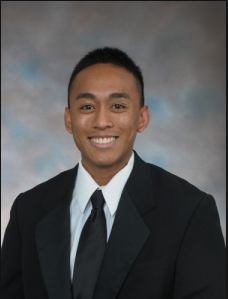
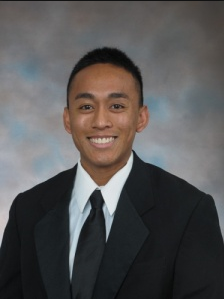
added some styling

diff --git a/index.html b/index.html
@@ -20,20 +20,22 @@
 </head>
 
 <body>
+	<a class="anchor" id="top"></a>
 	<div class="container-fluid">
 		<!--Navbar-->
 		<nav class="navbar navbar-expand-lg navbar-light fixed-top bg-light">
-			<a class="navbar-brand" href="#">C K C</a>
+			<a class="navbar-brand" href="#top">Cesar Kyle Casil</a>
 			<button class="navbar-toggler" type="button" data-toggle="collapse" data-target="#navbarsExample" aria-controls="navbarsExample"
 			 aria-expanded="false" aria-label="Toggle navigation">
 				<span class="navbar-toggler-icon"></span>
 			</button>
 
 			<div class="collapse navbar-collapse" id="navbarsExample">
-				<ul class="navbar-nav mr-auto">
+				<ul class="navbar-nav ml-auto">
 					<li class="nav-item"><a class="nav-link" href="#about">About</a></li>
 					<li class="nav-item"><a class="nav-link" href="#projects">Projects</a></li>
 					<li class="nav-item"><a class="nav-link" href="#skills">Skills</a></li>
+					<li id="contactlink" class="nav-item"><a class="nav-link" href="#contact">Contact</a></li>
 					<!-- <li class="nav-item"><a class="nav-link" href="#section4">Hobbies</a></li> -->
 				</ul>
 			</div>
@@ -42,7 +44,7 @@
 		<div id="body">
 			<div class="bgimg1">
 				<div class="d-flex justify-content-center text-center">
-					<div class="row">
+					<div id="splashpage" class="row">
 						<div class="col-md-12">
 							<h1 class="display-3"><a style="color: white;" href="#about">CESAR KYLE CASIL</a></h1>
 							<h5 class="text-uppercase font-weight-bold"><a style="color: white;" href="#about">Software Developer</a></h5>
@@ -56,7 +58,7 @@
 			<div class="container">
 				<div class="row align-items-start">
 					<div class="col col-lg-6 col-md-12 col-sm-12 text-center">
-						<img src="./images/Capture.PNG" alt="Cesar Kyle Casil">
+						<img id="meme" src="./images/Capture.PNG" alt="Cesar Kyle Casil">
 					</div>
 					<div class="col col-lg-6 col-md-12 col-sm-12">
 						<h2 class="font-weight-bold">About Me</h2>
@@ -85,7 +87,19 @@
 
 			<div class="container">
 				<div class="row">
-					<div class="col col-lg-4 col-md-6 col-sm-12 col-12">
+					<div class="col col-lg-6 col-md-6 col-sm-12 col-12">
+						<div class="card m-4 project">
+							<!-- <img class="card-img-top" src=".../100px180/" alt="Card image cap"> -->
+							<div class="card-body">
+								<h5 class="card-title"><a class="projectlinks" target="_blank" href=https://www.github.com/ccasil/LCTW>Love Changing the World</a></h5>
+								<p class="card-text">Public website for the non-profit organization Love Changing the World, Inc. Allows donations through PayPal in exchange for apparel with LCTW branding.</p>
+							</div>
+							<div class="card-footer">
+								<small class="text-muted">Technologies Used: React, JSX, HTML5, CSS3, Javascript, Bootstrap, Responsive Web Design (RWD)</small>
+							</div>
+						</div>
+					</div>
+					<div class="col col-lg-6 col-md-6 col-sm-12 col-12">
 						<div class="card m-4 project">
 							<!-- <img class="card-img-top" src=".../100px180/" alt="Card image cap"> -->
 							<div class="card-body">
@@ -98,7 +112,7 @@
 							</div>
 						</div>
 					</div>
-					<div class="col col-lg-4 col-md-6 col-sm-12 col-12">
+					<div class="col col-lg-6 col-md-6 col-sm-12 col-12">
 						<div class="card m-4 project">
 							<!-- <img class="card-img-top" src=".../100px180/" alt="Card image cap"> -->
 							<div class="card-body">
@@ -111,7 +125,7 @@
 							</div>
 						</div>
 					</div>
-					<div class="col col-lg-4 col-md-6 col-sm-12 col-12">
+					<div class="col col-lg-6 col-md-6 col-sm-12 col-12">
 						<div class="card m-4 project">
 							<!-- <img class="card-img-top" src=".../100px180/" alt="Card image cap"> -->
 							<div class="card-body">
@@ -142,7 +156,7 @@
 				<div class="row">
 					<div class="col text-center col-lg-4 col-md-6 col-sm-12">
 						<div class="card m-4">
-							<h4 class="card-header">Languages</h4>
+							<h4 class="card-header"><i class="fas fa-code"></i> Languages</h4>
 							<ul class="list-group">
 								<li class="list-group-item">Javascript (ES6)</li>
 								<li class="list-group-item">Typescript</li>
@@ -154,7 +168,7 @@
 
 					<div class="col text-center col-lg-4 col-md-6 col-sm-12">
 						<div class="card m-4">
-							<h4 class="card-header">Front-End</h4>
+							<h4 class="card-header"><i class="fas fa-desktop"></i> Front-End</h4>
 							<ul class="list-group">
 								<li class="list-group-item">HTML</li>
 								<li class="list-group-item">CSS</li>
@@ -167,7 +181,7 @@
 
 					<div class="col text-center col-lg-4 col-md-6 col-sm-12">
 						<div class="card m-4">
-							<h4 class="card-header">Database</h4>
+							<h4 class="card-header"><i class="fas fa-database"></i> Database</h4>
 							<ul class="list-group">
 								<li class="list-group-item">SQL (MySQL/SQLite)</li>
 								<li class="list-group-item">NoSQL (MongoDB)</li>
@@ -180,20 +194,20 @@
 
 					<div class="col text-center col-lg-4 col-md-6 col-sm-12">
 						<div class="card m-4">
-							<h4 class="card-header">Frameworks/Libraries</h4>
+							<h4 class="card-header"><i class="fas fa-book"></i> Frameworks/Libraries</h4>
 							<ul class="list-group">
 								<li class="list-group-item">Angular</li>
 								<li class="list-group-item">Node.js</li>
 								<li class="list-group-item">Socket.IO</li>
 								<li class="list-group-item">Django</li>
-								<li class="list-group-item">Bootstrap</li>
+								<li class="list-group-item">Bootstrap / RWD</li>
 							</ul>
 						</div>
 					</div>
 
 					<div class="col text-center col-lg-4 col-md-6 col-sm-12">
 						<div class="card m-4">
-							<h4 class="card-header">Development Tools</h4>
+							<h4 class="card-header"><i class="fas fa-wrench"></i> Development Tools</h4>
 							<ul class="list-group">
 								<li class="list-group-item">Git</li>
 								<li class="list-group-item">Amazon Web Services (EC2)</li>
@@ -206,7 +220,7 @@
 
 					<div class="col text-center col-lg-4 col-md-6 col-sm-12">
 						<div class="card m-4">
-							<h4 class="card-header">Miscellaneous</h4>
+							<h4 class="card-header"><i class="fas fa-microchip"></i> Miscellaneous</h4>
 							<ul class="list-group">
 								<li class="list-group-item">Agile Scrum Methodology</li>
 								<li class="list-group-item">Algorithms & Data Structures</li>
@@ -237,7 +251,7 @@
 			</div>
 		</div> -->
 
-			<a class="anchor" id="Contact"></a>
+			<a class="anchor" id="contact"></a>
 			<div class="bgimg4">
 				<div class="d-flex justify-content-center text-center">
 					<div class="row">

diff --git a/style.css b/style.css
@@ -1,5 +1,6 @@
 body {
     position: relative;
+    background: #f8f8f8;
 }
 
 #body {
@@ -8,6 +9,42 @@ body {
 
 img {
     margin: 25px;
+}
+
+.splashpage {
+    padding-top: 100px;
+}
+
+.nav-link:after {
+  content: '';
+  position: absolute;
+  bottom: 0;
+  left: 0;
+  width: 0%;
+  border-bottom: 2px solid #E0E0E0;
+  transition: 0.4s;
+}
+.nav-link:hover:after {
+  width: 100%;
+}
+
+.nav-link:hover {
+	color: #7c7c7d;
+}
+
+
+#contactlink:link {
+    color:red;
+}
+a:visited {
+    color: black;
+}
+#contactlink:hover {
+    font-weight: bold;
+}
+
+#meme {
+    border-radius: 50%;
 }
 
 .display-3 {

diff --git a/main.js b/main.js
@@ -5,9 +5,9 @@
 
         var scroll = $(window).scrollTop();
         scroll = scroll + $(window).height() - 50;
-        $('html, body').animate({
-            scrollTop: scroll
-        }, 1500);
+        // $('html, body').animate({
+        //     scrollTop: scroll
+        // }, 1500);
 
         $(function () {
             $(window).scroll(function () {
